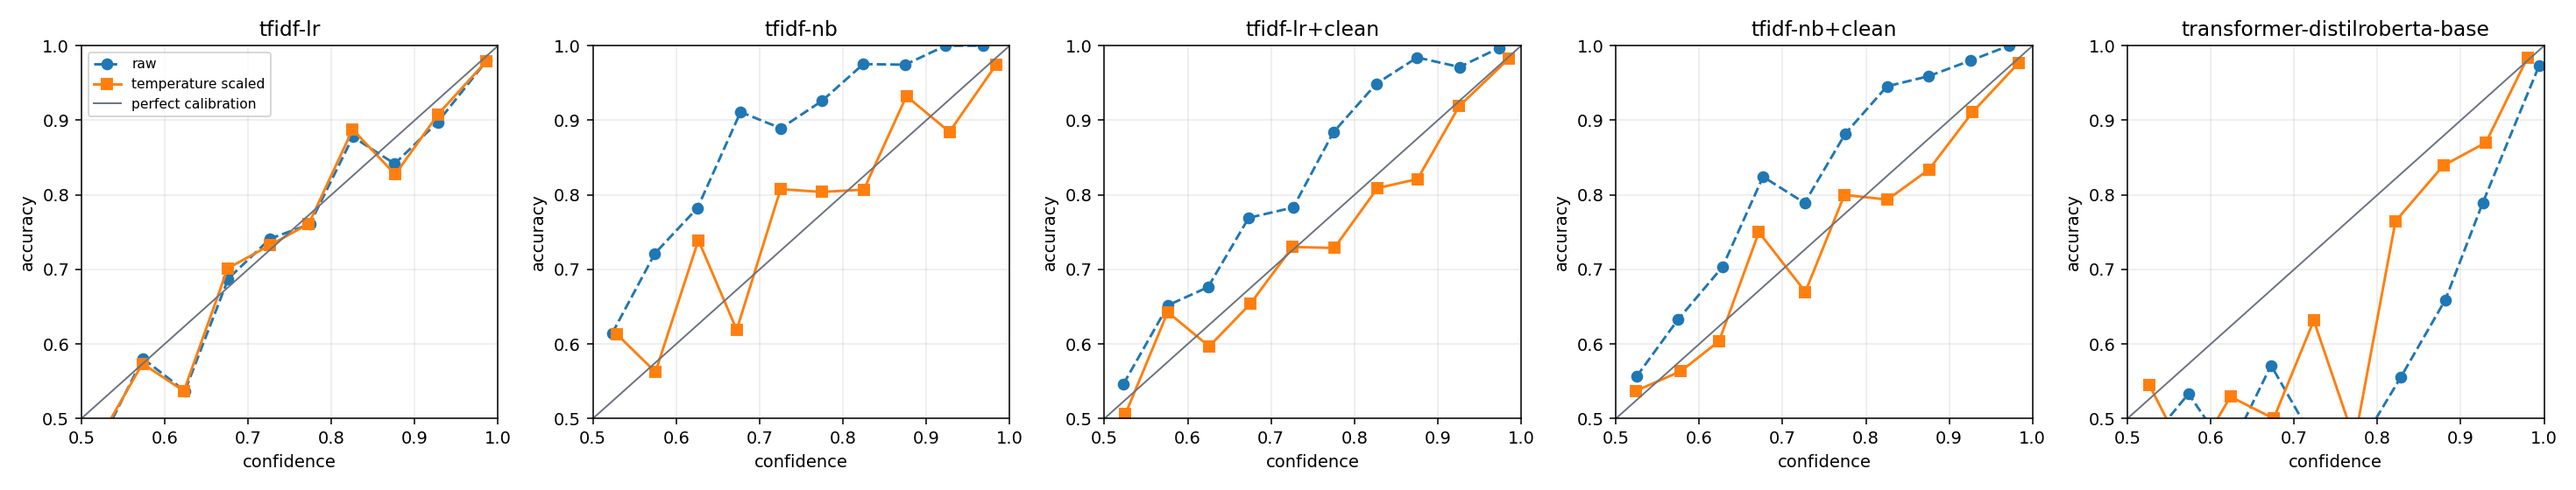
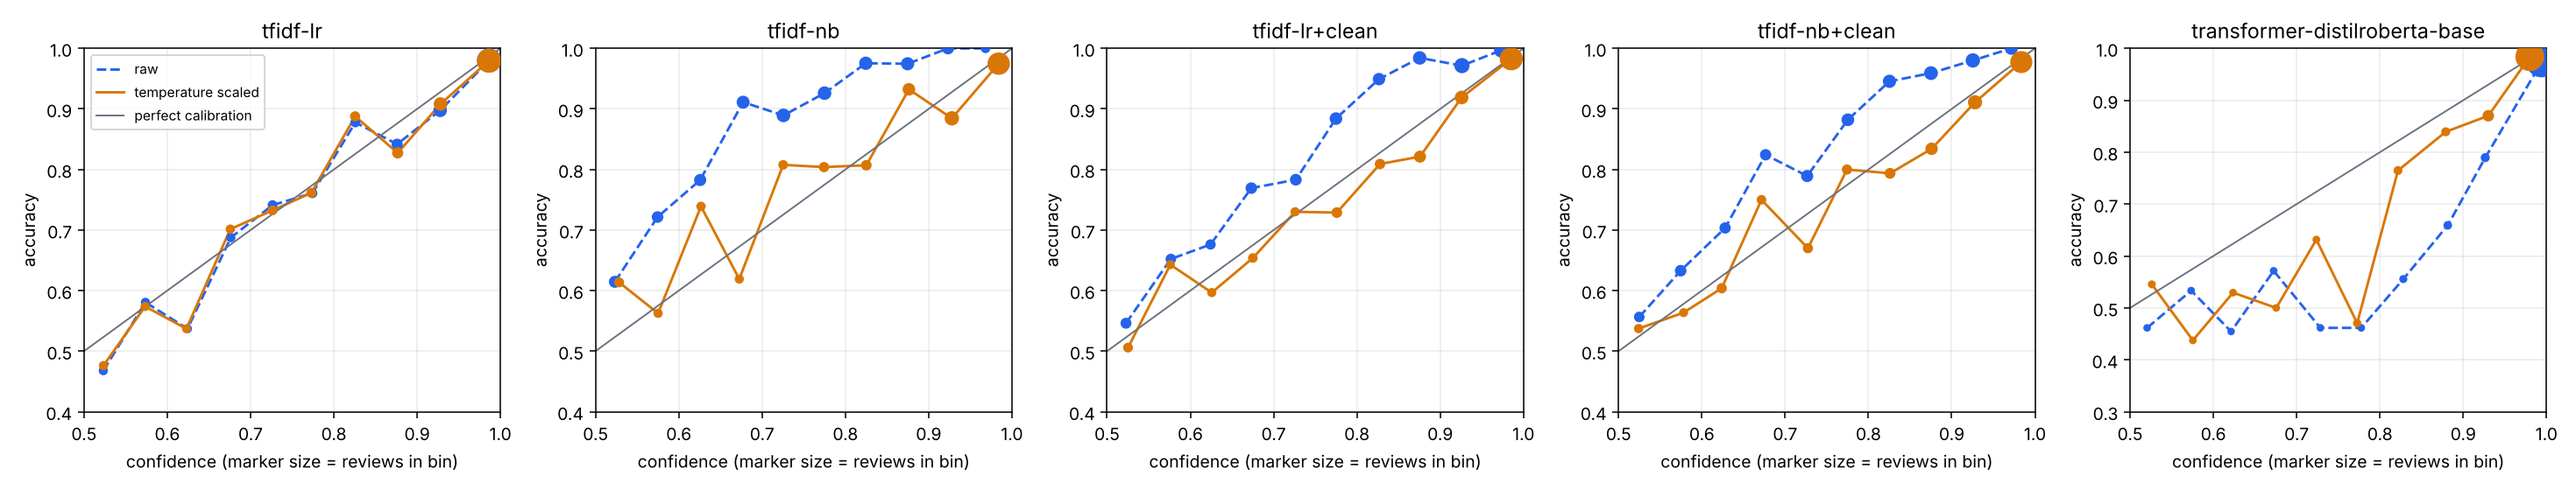
Fix reliability diagram clipping low-accuracy bins; size markers by count
The y-axis was fixed at 0.5-1.0, which hid bins whose accuracy fell below
0.5 (visible for the transformer at low confidence) and made the weakest
region look better than it is. The axis now fits the data, and marker
area is proportional to the number of reviews in each bin so sparse bins
are visibly sparse.

diff --git a/backend/experiments/report.py b/backend/experiments/report.py
@@ -71,25 +71,36 @@ def analyse(meta: dict, arrays: Dict[str, np.ndarray], n_boot: int = 1000) -> di
     return analysis
 
 
-def _plot_reliability(meta: dict, analysis: dict, path: str) -> None:
+def _plot_reliability(meta: dict, analysis: dict, arrays: Dict[str, np.ndarray], path: str) -> None:
     models = list(meta["models"])
     figure, axes = plt.subplots(1, len(models), figsize=(4.2 * len(models), 4), squeeze=False)
     for axis, name in zip(axes[0], models):
         entry = analysis["models"][name]
-        for key, label, style in (
-            ("reliability_uncalibrated", "raw", "o--"),
-            ("reliability_calibrated", "temperature scaled", "s-"),
+        lowest_accuracy = 0.5
+        for key, label, style, color in (
+            ("reliability_uncalibrated", "raw", "--", PALETTE[0]),
+            ("reliability_calibrated", "temperature scaled", "-", PALETTE[1]),
         ):
             bins = [b for b in entry[key] if b["count"]]
-            axis.plot(
-                [b["confidence"] for b in bins], [b["accuracy"] for b in bins], style, label=label
+            confidences = [b["confidence"] for b in bins]
+            accuracies = [b["accuracy"] for b in bins]
+            lowest_accuracy = min([lowest_accuracy] + accuracies)
+            axis.plot(confidences, accuracies, style, color=color, label=label)
+            # marker area is proportional to the bin's review count, so thin bins look thin
+            axis.scatter(
+                confidences,
+                accuracies,
+                s=[10 + 300 * b["count"] / len(arrays["y_test"]) for b in bins],
+                color=color,
+                zorder=3,
             )
         axis.plot([0.5, 1], [0.5, 1], color="#6b7280", linewidth=1, label="perfect calibration")
         axis.set_title(name)
-        axis.set_xlabel("confidence")
+        axis.set_xlabel("confidence (marker size = reviews in bin)")
         axis.set_ylabel("accuracy")
         axis.set_xlim(0.5, 1.0)
-        axis.set_ylim(0.5, 1.0)
+        # never clip bins whose accuracy falls below 0.5
+        axis.set_ylim(max(0.0, np.floor((lowest_accuracy - 0.05) * 10) / 10), 1.0)
         axis.grid(alpha=0.25)
     axes[0][0].legend(fontsize=8, loc="upper left")
     figure.tight_layout()
@@ -254,7 +265,7 @@ def build_report(run_dir: str, n_boot: int = 1000) -> str:
         entry["selective"].pop("curve")
     with open(os.path.join(run_dir, "results.json"), "w", encoding="utf-8") as handle:
         json.dump(compact, handle, indent=2)
-    _plot_reliability(meta, analysis, os.path.join(run_dir, "reliability.png"))
+    _plot_reliability(meta, analysis, arrays, os.path.join(run_dir, "reliability.png"))
     _plot_risk_coverage(meta, analysis, os.path.join(run_dir, "risk_coverage.png"))
 
     markdown = render_markdown(meta, analysis)
